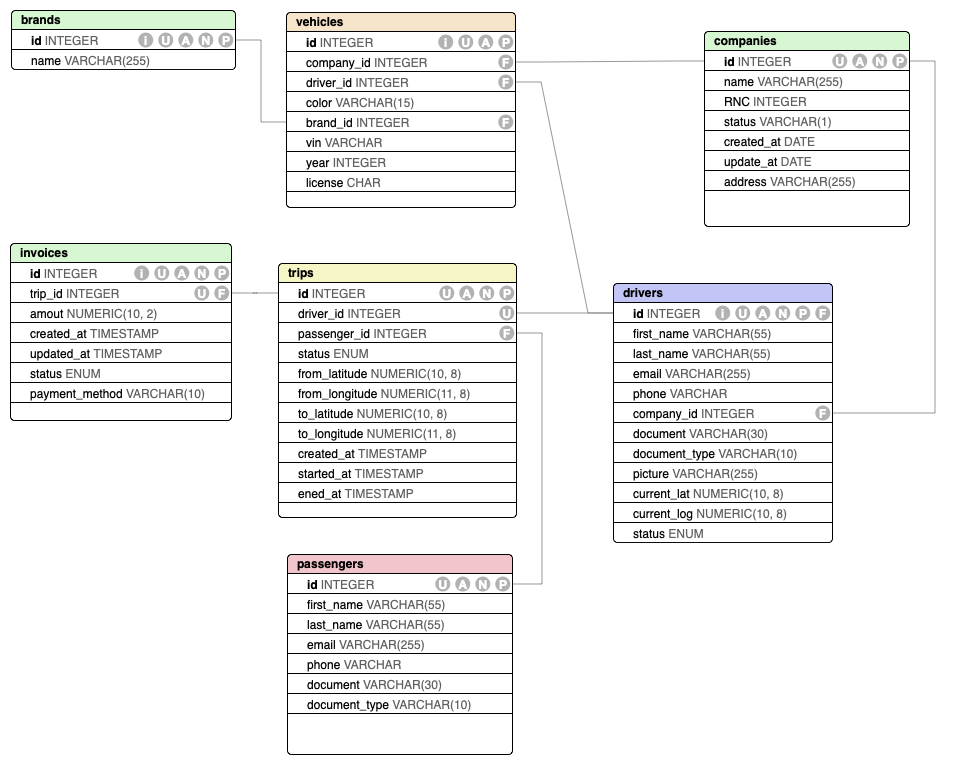
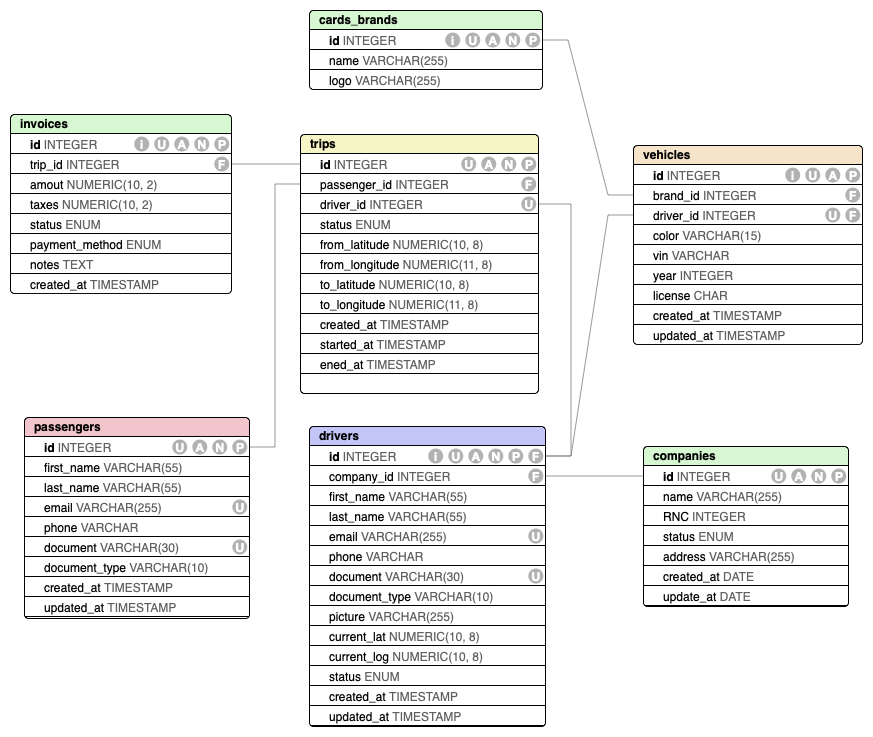
Adding db schema image

Changed region(s): [[0.0, 0.0, 0.9897, 0.9986], [0.0, 0.0, 0.2474, 0.0936]]

diff --git a/README.md b/README.md
@@ -128,3 +128,7 @@ curl --location 'http://localhost:3000/passengers/1'
 curl --location 'http://localhost:3000/passengers/trip?latitude=18.480023716974017&longitude=-69.89138258140852&distance=3'
 ```
 > latitude and longitude are current passenger location
+
+
+### Datbase Schema
+![Database Schema](docs/database_schema.png)
